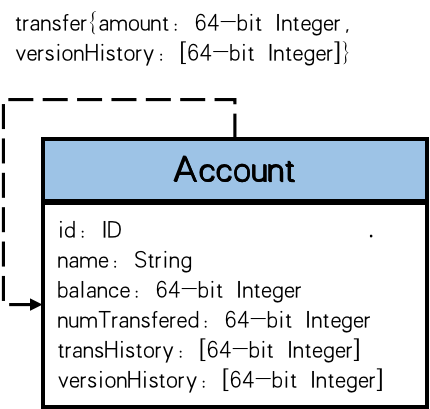
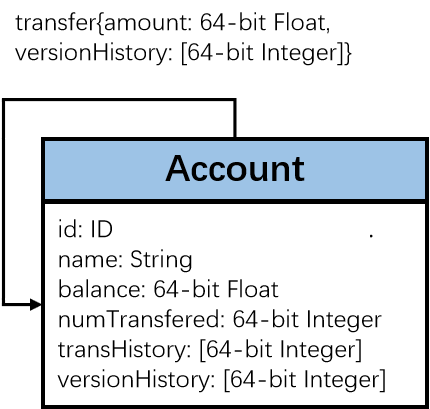
update amount type 64-bit integer to 64-bit float (#81)

diff --git a/data.tex b/data.tex
@@ -46,6 +46,9 @@ places (thousandths).
         32-bit Float            & Floating type with 32-bit precision
         \textbf{rounded to 3 decimal places (thousandths)}                        \\
         \hline
+        64-bit Float            & Floating type with 64-bit precision
+        \textbf{rounded to 3 decimal places (thousandths)}                        \\
+        \hline
         String                  & Variable length text of size 40 Unicode
         characters                                                               \\
         \hline
@@ -183,9 +186,9 @@ world. \autoref{table:loan} shows the attributes.
         \hline
         id                           & ID                 & The identifier of the loan. \\
         \hline
-        loanAmount                   & 64-bit Integer     & The amount of a loan.       \\
+        loanAmount                   & 64-bit Float     & The amount of a loan.       \\
         \hline
-        balance                      & 64-bit Integer     & The balance of a loan.      \\
+        balance                      & 64-bit Float     & The balance of a loan.      \\
         \hline
     \end{tabular}
     \caption{Attributes of Loan entity.}
@@ -256,7 +259,7 @@ only be owned by a person or a company.
         \hline
         timestamp                    & DateTime           & The time when transfer issues. \\
         \hline
-        amount                       & 64-bit Integer     & The amount of the transfer.    \\
+        amount                       & 64-bit Float     & The amount of the transfer.    \\
         \hline
         type                         & String             & The type of the transfer.      \\
         \hline
@@ -273,7 +276,7 @@ only be owned by a person or a company.
         \hline
         timestamp                    & DateTime           & The time when withdraw issues. \\
         \hline
-        amount                       & 64-bit Integer     & The amount of the withdraw.    \\
+        amount                       & 64-bit Float     & The amount of the withdraw.    \\
         \hline
     \end{tabular}
     \caption{Attributes of withdraw relation.}
@@ -288,7 +291,7 @@ only be owned by a person or a company.
         \hline
         timestamp                    & DateTime           & The time when repay issues. \\
         \hline
-        amount                       & 64-bit Integer     & The amount of the repay.    \\
+        amount                       & 64-bit Float     & The amount of the repay.    \\
         \hline
     \end{tabular}
     \caption{Attributes of repay relation.}
@@ -303,7 +306,7 @@ only be owned by a person or a company.
         \hline
         timestamp                    & DateTime           & The time when deposit issues. \\
         \hline
-        amount                       & 64-bit Integer     & The amount of the deposit.    \\
+        amount                       & 64-bit Float     & The amount of the deposit.    \\
         \hline
     \end{tabular}
     \caption{Attributes of deposit relation.}
